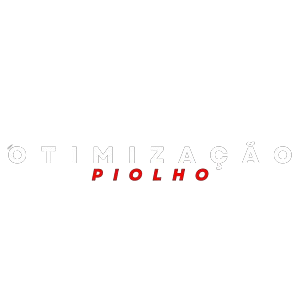
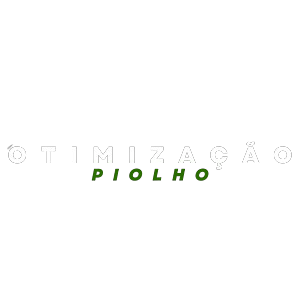
2 commint

diff --git a/styles/notificação.css b/styles/notificação.css
@@ -5,12 +5,12 @@
     isolation: isolate;
     width: 18rem;
     height: 6rem;
-    background: #470000;
+    background: #539b00;
     border-radius: 1rem;
     overflow: hidden;
     font-family: 'Gill Sans', 'Gill Sans MT', Calibri, 'Trebuchet MS', sans-serif;
     font-size: 16px;
-    --gradient: linear-gradient(to bottom, #ff0000, var(--red), #660707);
+    --gradient: linear-gradient(to bottom, #88ff00, var(--red), #539b00);
     flex-wrap: row wrap;
     z-index: 1;
     top: 30%;
@@ -26,7 +26,7 @@
     content: "";
     inset: 0.0625rem;
     border-radius: 0.9375rem;
-    background: #0e0000;
+    background: #080e00;
     z-index: 2;
 }
 
@@ -36,7 +36,7 @@
     width: 0.25rem;
     inset: 0.65rem auto 0.65rem 0.5rem;
     border-radius: 0.125rem;
-    background: #470000;
+    background: #488600;
     transition: transform 300ms ease;
     z-index: 4;
 }
@@ -46,7 +46,7 @@
 }
 
 .notititle {
-    color: #910000;
+    color: #70d100;
     padding: 0.65rem 0.25rem 0.4rem 1.25rem;
     font-weight: 500;
     font-size: 1.1rem;
@@ -126,7 +126,7 @@
     display: flex;
     align-items: center;
     justify-content: center;
-    background-color: #470000;
+    background-color: #4e9200;
     border-radius: 50%;
     cursor: pointer;
     transition-duration: .3s;
@@ -145,7 +145,7 @@
   }
   
   .whatzapp:hover{
-    background-color: #470000;
+    background-color: #4e9200;
   }
   
   .whatzapp:hover .bell {
@@ -209,7 +209,7 @@
   
   .loader {
 	border: 16px solid #efeee8;
-	border-top: 16px solid #470000;  /* Change the preloader color here */
+	border-top: 16px solid #539b00;  /* Change the preloader color here */
 	border-radius: 50%;
 	width: 120px;
 	height: 120px;

diff --git a/styles/main.css b/styles/main.css
@@ -89,7 +89,7 @@ main {
 
 .main__info div a:hover {
     color: rgb(21, 10, 30);
-    box-shadow: 1px 1px 200px #d11d1d;
+    box-shadow: 1px 1px 200px #6fcf00;
 }
 
 .main__info div a:active {
@@ -183,8 +183,8 @@ article {
     margin-top: 20%;
     margin: 0 auto 32px;
     border-radius: 16px;
-    background-color: #3300002d;
-    box-shadow: 0 4px 12px rgba(0, 0, 0, 0.05), 0 1px 2px rgba(0, 0, 0, 0.1), inset 0 1px 1px rgba(255, 0, 0, 0.185);
+    background-color: #1933002d;
+    box-shadow: 0 4px 12px rgba(0, 0, 0, 0.05), 0 1px 2px rgba(0, 0, 0, 0.1), inset 0 1px 1px #4f9400;
 }
 
 article img {
@@ -210,7 +210,7 @@ article p {
     position: relative;
     background-color: transparent;
     cursor: pointer;
-    border: 2px solid #79000070;
+    border: 2px solid #6fcf00;
     overflow: hidden;
     border-radius: 30px;
     color: rgb(255, 255, 255);
@@ -229,7 +229,7 @@ article p {
     left: 0;
     top: 0;
     transition: all 0.5s ease-in-out;
-    background-color: #d11d1d;
+    background-color: #6fcf00;
     border-radius: 30px;
     visibility: hidden;
     height: 10px;
@@ -238,7 +238,7 @@ article p {
 }
 
 .button:hover {
-    box-shadow: 1px 1px 200px #d11d1d;
+    box-shadow: 1px 1px 200px #6fcf00;
     color: #fff;
     border: none;
 }

diff --git a/styles/header.css b/styles/header.css
@@ -15,7 +15,7 @@
     display: flex;
     justify-content: space-around;
     align-items: center;
-    background: #ff000007;
+    background: #88ff0007;
     height: 8vh;
     backdrop-filter: blur(10px);
     box-shadow: rgba(0, 0, 0, 0.25) 0px 14px 28px, rgba(0, 0, 0, 0.22) 0px 10px 10px;
@@ -39,7 +39,7 @@
 
 
   a:hover{
-    color: #af0000;
+    color: #6fcf00;
     transition-duration: .3s;
   }
 
@@ -66,7 +66,7 @@
       right: 0;
       width: 50vw;
       height: 92vh;
-      background: #23232e00;
+      background: #252e2300;
       flex-direction: column;
       align-items: center;
       justify-content: space-around;

diff --git a/styles/global.css b/styles/global.css
@@ -15,7 +15,7 @@
 :root {
   --roxo: #9824f8;
   --text: #EDF1F7;
-  --red: #C51212;
+  --red: #6fcf00;
   --blue: #0041C2;
   --verde: #14B02D;
   --yellow: #ffc12b;
@@ -53,6 +53,6 @@ button:hover {
 
 ::-webkit-scrollbar-thumb{
   border-radius: 20px;
-  background-image: linear-gradient(black, black, #750000,#750000, black, black);
+  background-image: linear-gradient(black, black, #6cca00,#6cca00, black, black);
 }
 

diff --git a/index.html b/index.html
@@ -47,7 +47,7 @@
 
 
     <div id="background">
-        <img class="img__inicial" src="./assets/installer_bg_blurred.png" alt=" ">
+        <img class="img__inicial" src="./assets/fundo site.png" alt=" ">
     </div>
 
 
